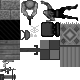
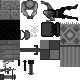
different weapon visuals

Changed region(s): [[0.275, 0.75, 0.425, 0.95], [0.35, 0.225, 0.4, 0.325], [0.225, 0.75, 0.25, 0.825]]

diff --git a/src/sprites.ts b/src/sprites.ts
@@ -16,7 +16,7 @@ export const SPRITES_MAP: SpriteMap = {
   tableBorder: {x: 60, y: 45, w: 20, h: 2},
   table: {x: 60, y: 47, w: 47, h: 20},
   wall: {x: 0, y: 20, w: 20, h: 20},
-  agent: {x: 21, y: 0, w: 20, h: 25},
+  agent: {x: 21, y: 0, w: 17, h: 19},
   corpse: {x: 40, y: 0, w: 40, h: 23},
   door: {x: 20, y: 40, w: 20, h: 20},
   light: {x: 20, y: 30, w: 5, h: 10},
@@ -25,7 +25,10 @@ export const SPRITES_MAP: SpriteMap = {
   hidden: {x: 30, y: 24, w: 9, h: 4},
   visible: {x: 30, y: 28, w: 9, h: 5},
   reload: {x: 30, y: 33, w: 7, h: 4},
-  gunPistol: {x: 0, y: 60, w: 16, h: 7},
-  gunMG: {x: 0, y: 67, w: 16, h: 7},
-  gunMinigun: {x: 0, y: 73, w: 16, h: 7},
+  pickablePistol: {x: 0, y: 60, w: 16, h: 7},
+  pickableMG: {x: 0, y: 67, w: 16, h: 7},
+  pickableMinigun: {x: 0, y: 73, w: 16, h: 7},
+  gunPistol: {x: 16, y: 60, w: 6, h: 15},
+  gunMG: {x: 22, y: 60, w: 6, h: 15},
+  gunMinigun: {x: 28, y: 60, w: 6, h: 15},
 }

diff --git a/src/renderer/systems-renderer.ts b/src/renderer/systems-renderer.ts
@@ -138,6 +138,18 @@ export class SystemsRenderer {
         -TILE_SIZE / 2, -TILE_SIZE / 2,
         sprite.w, sprite.h,
       )
+
+      if (agent.currentWeapon) {
+        const gunSprite = SPRITES_MAP[`gun${agent.currentWeapon.options.name}`];
+        this.context.drawImage(
+          this.renderer.texture,
+          gunSprite.x, gunSprite.y,
+          gunSprite.w, gunSprite.h,
+          -4, 8,
+          gunSprite.w, gunSprite.h,
+        )
+      }
+
       this.context.restore();
 
       this.context.fillStyle = 'red';

diff --git a/src/systems/pickable.ts b/src/systems/pickable.ts
@@ -27,7 +27,7 @@ export class PickableComponent extends Entity {
       this.engine, {
         pos: this.pos,
         changing: true,
-        sprite: `gun${this.gun.options.name}`,
+        sprite: `pickable${this.gun.options.name}`,
         pivot: new Vector2(8, 3),
       },
     );
